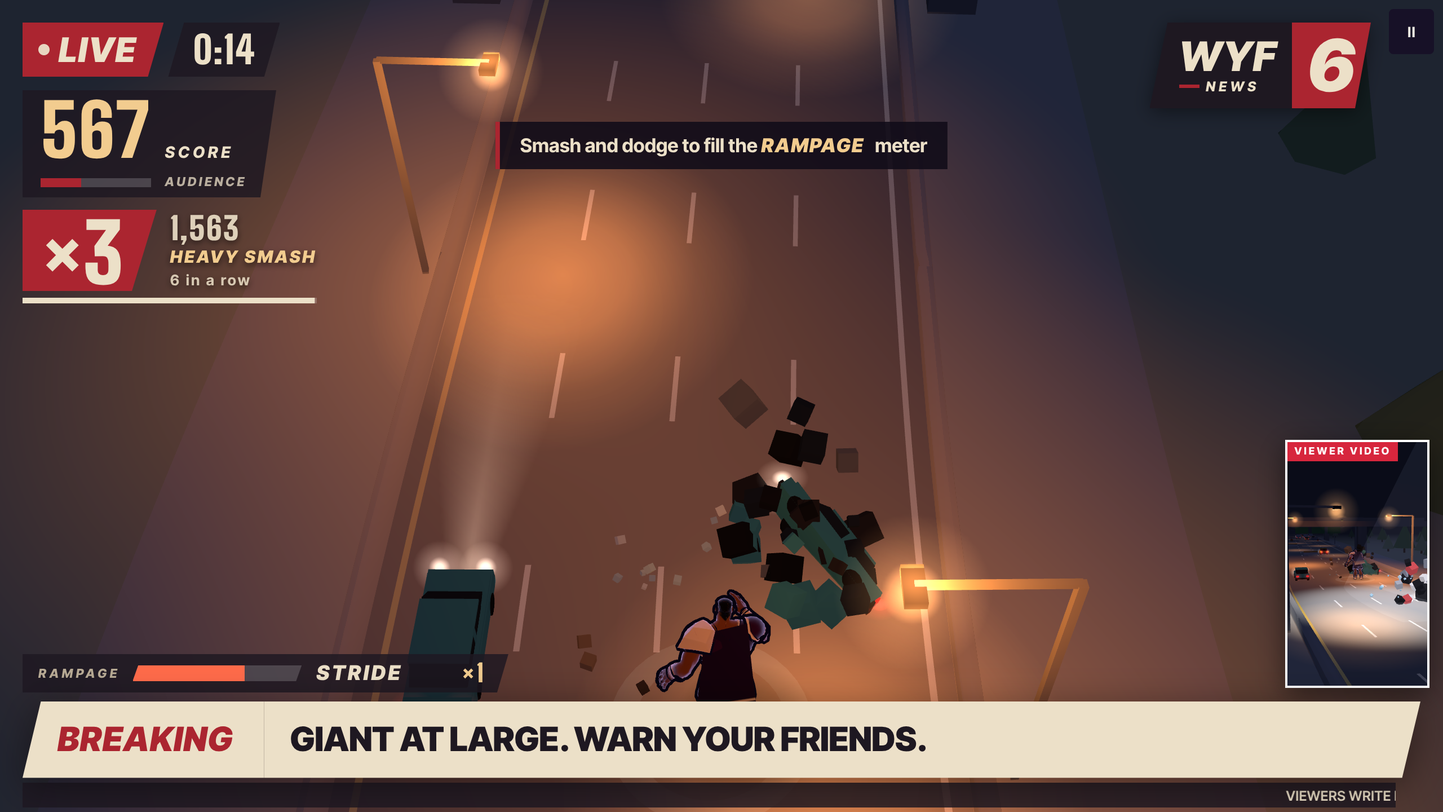
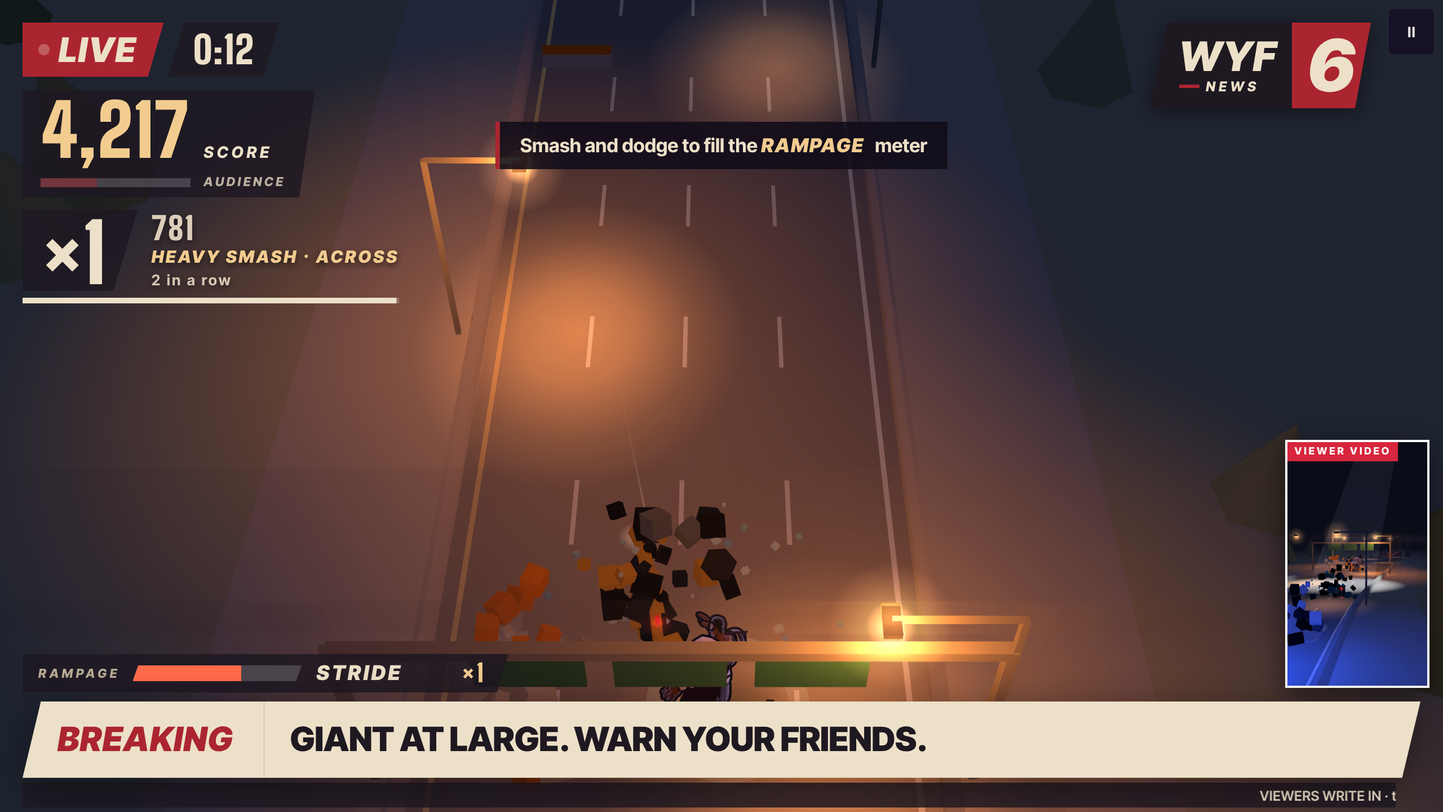
Stride at Rampage speed with stronger Rampage tells; High Head-On opening; menus on the cover art
- Stride runs at 15 m/s with the full-speed pose; Rampage keeps the speed
  and adds a hot rim light, glowing screen edges, a size swell, a deeper
  pose and a wider shot.
- Rebalanced for the speed: meter gains x0.8, upgrade prices x1.25.
- Opening: High Head-On for 3.5s, then the pivot into Chase High.
- The cover art stays behind every menu (and the first How to Play);
  the live attract shot only appears after 12s idle; Go Live cuts
  straight into the broadcast.

Claude-Session: https://claude.ai/code/session_01U6CEu2PNBYzoTWijGizJZi

diff --git a/src/tuning.ts b/src/tuning.ts
@@ -103,7 +103,8 @@ export const TUNING = {
    */
   growth: {
     /** Scale per gear (Jog, Stride, Rampage), body and collision radius. */
-    scale: [1.3, 1.3, 1.3] as [number, number, number],
+    /** Rampage swells him (2026-11-17, a Rampage tell; he runs through everything then, so the bigger hit-box only smashes more). */
+    scale: [1.3, 1.3, 1.45] as [number, number, number],
     /** The fixed-size alternative to compare in playtest (?size=big): Rampage size all the time, look only. */
     big: 1.3,
     /** Grow/shrink ease time constant (s): a swell, not a pop. */
@@ -180,8 +181,11 @@ export const TUNING = {
     // (little bob), knee drive and heel kick, a big exaggerated arm pump (Mike: "exaggerated a bit"). Speeds, cadence
     // and stride are unchanged.
     { name: 'Jog', topSpeed: 6, accel: 8, tierUpAfter: 2.0, smashes: 'light', laneChangeTime: 0.22, cadence: 2.6, specStrideLength: 2.5, leanDeg: 20, hipHeight: 1.68, bodyDrop: 0.12, footLift: 0.45, cameraDistanceScale: 0.9, armSwing: 0.9, armBase: -0.1, flightLift: 0.03, elbowBend: 1.2, capeAngle: 20, capeFlutterHz: 1.3, capeFlutterAmp: 0.05 },
-    { name: 'Stride', topSpeed: 10, accel: 6, tierUpAfter: Infinity, smashes: 'heavy', laneChangeTime: 0.3, cadence: 2.8, specStrideLength: 4.0, leanDeg: 30, hipHeight: 1.64, bodyDrop: 0.18, footLift: 0.75, cameraDistanceScale: 1.0, armSwing: 1.25, armBase: -0.05, flightLift: 0.07, elbowBend: 1.4, capeAngle: 52, capeFlutterHz: 3.2, capeFlutterAmp: 0.12 },
-    { name: 'Rampage', topSpeed: 15, accel: 4, tierUpAfter: Infinity, smashes: 'heavy', laneChangeTime: 0.4, cadence: 3.1, specStrideLength: 6.0, leanDeg: 40, hipHeight: 1.6, bodyDrop: 0.24, footLift: 1.05, cameraDistanceScale: 1.2, armSwing: 1.6, armBase: 0, flightLift: 0.11, elbowBend: 1.6, capeAngle: 80, capeFlutterHz: 6.5, capeFlutterAmp: 0.2 },
+    // Mike (2026-11-17): "his rampage speed should be his default speed, game feels slow without it". Stride runs at
+    // 15 m/s with the full-speed run (the old Rampage pose and framing); a quicker lane change keeps it light on its feet.
+    { name: 'Stride', topSpeed: 15, accel: 6, tierUpAfter: Infinity, smashes: 'heavy', laneChangeTime: 0.3, cadence: 3.1, specStrideLength: 6.0, leanDeg: 38, hipHeight: 1.6, bodyDrop: 0.24, footLift: 1.05, cameraDistanceScale: 1.2, armSwing: 1.5, armBase: 0, flightLift: 0.11, elbowBend: 1.6, capeAngle: 78, capeFlutterHz: 6.0, capeFlutterAmp: 0.18 },
+    // Rampage is a state now, not a faster gear: same speed, a deeper lean, a wilder arm pump and cape, the chopper a little further out (plus the tells in TUNING.rampageFx).
+    { name: 'Rampage', topSpeed: 15, accel: 6, tierUpAfter: Infinity, smashes: 'heavy', laneChangeTime: 0.32, cadence: 3.1, specStrideLength: 6.0, leanDeg: 46, hipHeight: 1.58, bodyDrop: 0.28, footLift: 1.15, cameraDistanceScale: 1.3, armSwing: 1.9, armBase: 0.05, flightLift: 0.13, elbowBend: 1.7, capeAngle: 86, capeFlutterHz: 8, capeFlutterAmp: 0.26 },
   ] as TierTuning[],
 
   tierDrop: {
@@ -208,7 +212,8 @@ export const TUNING = {
    * meter instead of a gear. Score: `distancePoints` a metre at all times (× the gear's bankMult).
    */
   rampage: {
-    gain: { medium: 9, heavy: 12, unit: 16, policeCrash: 20, collateral: 6, nearMiss: 10, ramDodge: 12, lostTrack: 12, chopperShaken: 15, leapLand: 10, breakawayLand: 12 } as Record<string, number>,
+    /** At 15 m/s (2026-11-17) Stride meets more per second: gains ×0.8 keep Rampage about a quarter of the run. */
+    gain: { medium: 7, heavy: 10, unit: 13, policeCrash: 16, collateral: 5, nearMiss: 8, ramDodge: 10, lostTrack: 10, chopperShaken: 12, leapLand: 8, breakawayLand: 10 } as Record<string, number>,
     duration: 8,
     perSmash: 0.3,
     maxDuration: 12,
@@ -218,6 +223,14 @@ export const TUNING = {
     secondWindKeep: 33,
     bufferFrames: 5,
   },
+
+  /**
+   * Rampage tells (presentation, 2026-11-17: "we just need a stronger tell for the rampage state"). His rim light
+   * heats from the look's lilac to `rimColor` at `rimBoost`× strength (eased over `ease` s, a slow `pulseHz`
+   * throb), a hot vignette at the screen edges (CSS), plus the size swell (growth.scale), the pose, the music layer
+   * and the meter's countdown. All under 3 Hz; Reduce Flashes holds the throb still.
+   */
+  rampageFx: { rimColor: 0xff5a1f, rimBoost: 2.4, rimFloor: 1.4, ease: 0.25, pulseHz: 1.6, pulseAmp: 0.25 },
 
   shoulderCheck: {
     /** §7 0.25s burst that smashes one mass class up (unchanged in v0.3). */
@@ -559,14 +572,14 @@ export const TUNING = {
      */
     homeAngle: 0,
     /**
-     * Mike (2026-11-17, "think how SA2 starts City Escape"): every broadcast opens on the low hero shot in front
-     * of him (the Sign-Off angle: he runs at the lens), held `openingHold` s (the cold open is most of it), then
-     * the chopper swings round behind him into Chase High in one move (the swoop). It counts as a cut-away, so
+     * Mike (2026-11-17, "think how SA2 starts City Escape", then his screenshot of the shot he meant): every
+     * broadcast opens on High Head-On (he runs down the screen at you), held `openingHold` s (the cold open is
+     * part of it), then the chopper pivots round behind him into Chase High in one move (the swoop). It counts as a cut-away, so
      * the next one waits the usual `cutMinInterval`. Off when camera cuts are off. Like the swoop, the hero shot
      * is exempt from the ≥2s-of-road framing rule: nothing is placed within 45m of the start or spawns before 12s.
      */
-    openingAngle: 6,
-    openingHold: 2.6,
+    openingAngle: 4,
+    openingHold: 3.5,
     /** Phase 0c: at least 15s between cut-aways (tighter than v0.3's 7s). */
     cutMinInterval: 15,
     /** Phase 0c: return to Chase High after this long away (s, random in range). */
@@ -814,15 +827,16 @@ export const TUNING = {
    * a different one replaces it. Passives stack. Prices are paid from banked spectacle points (spending never lowers
    * the score). Breakaway and Slipstream start locked (Awards unlock them, src/awards.ts).
    */
+  /** Prices ×1.25 (2026-11-17): at 15 m/s a cleared segment banks ~200k with the bot (was ~160k). */
   upgrades: {
-    leap: { kind: 'ability', price: 195000, label: 'Leap', blurb: 'Hop lanes of trouble. The landing flattens what you land on.', pitch: 'Get a clean shot of him clearing the spike strip.', levels: ['', 'Longer jump, bigger landing.', 'The landing flattens anything, armored trucks too.'] },
-    stare: { kind: 'ability', price: 160000, label: 'The Stare', blurb: 'Traffic and police ahead pull out of your lane.', pitch: 'Stay tight on the eyes. We have time.', levels: ['', 'Reaches half again as far.', 'Police that pull over crash out.'] },
-    breakaway: { kind: 'ability', price: 210000, label: 'Breakaway', blurb: 'Dive over everything ahead. The police behind lose you.', pitch: 'Get the long lens on him. He’s about to leave them all behind.', levels: ['', 'Longer dive, bigger slam.', 'Lands straight into Rampage.'] },
-    primeTime: { kind: 'ability', price: 180000, label: 'Prime Time', blurb: 'For a few seconds the audience can’t drop and every smash counts double.', pitch: 'Every station is taking our feed. Make it count.', levels: ['', 'Lasts 8 seconds.', 'Lasts 10 seconds.'] },
-    thickSkin: { kind: 'passive', price: 140000, label: 'Thick Skin', blurb: 'Shrug off the first hit each segment: no meter lost.', pitch: 'He walked through that like a turnstile.' },
-    secondWind: { kind: 'passive', price: 125000, label: 'Second Wind', blurb: 'Each Rampage ends with the meter a third full.', pitch: 'He’s catching his breath. Stay on him, he’s coming back.' },
-    crowdPleaser: { kind: 'passive', price: 150000, label: 'Crowd Pleaser', blurb: 'At Rampage the audience drains 40% slower.', pitch: 'Keep rolling. Nobody can look away.' },
-    slipstream: { kind: 'passive', price: 160000, label: 'Slipstream', blurb: 'Police crashes pay double: Ratings and points.', pitch: 'Anyone chasing him ends up in the scenery. Keep it wide.' },
+    leap: { kind: 'ability', price: 245000, label: 'Leap', blurb: 'Hop lanes of trouble. The landing flattens what you land on.', pitch: 'Get a clean shot of him clearing the spike strip.', levels: ['', 'Longer jump, bigger landing.', 'The landing flattens anything, armored trucks too.'] },
+    stare: { kind: 'ability', price: 200000, label: 'The Stare', blurb: 'Traffic and police ahead pull out of your lane.', pitch: 'Stay tight on the eyes. We have time.', levels: ['', 'Reaches half again as far.', 'Police that pull over crash out.'] },
+    breakaway: { kind: 'ability', price: 260000, label: 'Breakaway', blurb: 'Dive over everything ahead. The police behind lose you.', pitch: 'Get the long lens on him. He’s about to leave them all behind.', levels: ['', 'Longer dive, bigger slam.', 'Lands straight into Rampage.'] },
+    primeTime: { kind: 'ability', price: 225000, label: 'Prime Time', blurb: 'For a few seconds the audience can’t drop and every smash counts double.', pitch: 'Every station is taking our feed. Make it count.', levels: ['', 'Lasts 8 seconds.', 'Lasts 10 seconds.'] },
+    thickSkin: { kind: 'passive', price: 175000, label: 'Thick Skin', blurb: 'Shrug off the first hit each segment: no meter lost.', pitch: 'He walked through that like a turnstile.' },
+    secondWind: { kind: 'passive', price: 155000, label: 'Second Wind', blurb: 'Each Rampage ends with the meter a third full.', pitch: 'He’s catching his breath. Stay on him, he’s coming back.' },
+    crowdPleaser: { kind: 'passive', price: 190000, label: 'Crowd Pleaser', blurb: 'At Rampage the audience drains 40% slower.', pitch: 'Keep rolling. Nobody can look away.' },
+    slipstream: { kind: 'passive', price: 200000, label: 'Slipstream', blurb: 'Police crashes pay double: Ratings and points.', pitch: 'Anyone chasing him ends up in the scenery. Keep it wide.' },
   } as Record<UpgradeId, { kind: 'ability' | 'passive'; price: number; label: string; blurb: string; /** The producer's line on the meeting card (flavour). */ pitch: string; /** Abilities: what levels II and III add ([0] unused). */ levels?: string[] }>,
   /** Ability level-up price, as a share of the ability's price; highest level. */
   levelPrice: 0.8,

diff --git a/api/leaderboard.js b/api/leaderboard.js
@@ -16,7 +16,8 @@ var TUNING = {
    */
   growth: {
     /** Scale per gear (Jog, Stride, Rampage), body and collision radius. */
-    scale: [1.3, 1.3, 1.3],
+    /** Rampage swells him (2026-11-17, a Rampage tell; he runs through everything then, so the bigger hit-box only smashes more). */
+    scale: [1.3, 1.3, 1.45],
     /** The fixed-size alternative to compare in playtest (?size=big): Rampage size all the time, look only. */
     big: 1.3,
     /** Grow/shrink ease time constant (s): a swell, not a pop. */
@@ -89,8 +90,11 @@ var TUNING = {
     // (little bob), knee drive and heel kick, a big exaggerated arm pump (Mike: "exaggerated a bit"). Speeds, cadence
     // and stride are unchanged.
     { name: "Jog", topSpeed: 6, accel: 8, tierUpAfter: 2, smashes: "light", laneChangeTime: 0.22, cadence: 2.6, specStrideLength: 2.5, leanDeg: 20, hipHeight: 1.68, bodyDrop: 0.12, footLift: 0.45, cameraDistanceScale: 0.9, armSwing: 0.9, armBase: -0.1, flightLift: 0.03, elbowBend: 1.2, capeAngle: 20, capeFlutterHz: 1.3, capeFlutterAmp: 0.05 },
-    { name: "Stride", topSpeed: 10, accel: 6, tierUpAfter: Infinity, smashes: "heavy", laneChangeTime: 0.3, cadence: 2.8, specStrideLength: 4, leanDeg: 30, hipHeight: 1.64, bodyDrop: 0.18, footLift: 0.75, cameraDistanceScale: 1, armSwing: 1.25, armBase: -0.05, flightLift: 0.07, elbowBend: 1.4, capeAngle: 52, capeFlutterHz: 3.2, capeFlutterAmp: 0.12 },
-    { name: "Rampage", topSpeed: 15, accel: 4, tierUpAfter: Infinity, smashes: "heavy", laneChangeTime: 0.4, cadence: 3.1, specStrideLength: 6, leanDeg: 40, hipHeight: 1.6, bodyDrop: 0.24, footLift: 1.05, cameraDistanceScale: 1.2, armSwing: 1.6, armBase: 0, flightLift: 0.11, elbowBend: 1.6, capeAngle: 80, capeFlutterHz: 6.5, capeFlutterAmp: 0.2 }
+    // Mike (2026-11-17): "his rampage speed should be his default speed, game feels slow without it". Stride runs at
+    // 15 m/s with the full-speed run (the old Rampage pose and framing); a quicker lane change keeps it light on its feet.
+    { name: "Stride", topSpeed: 15, accel: 6, tierUpAfter: Infinity, smashes: "heavy", laneChangeTime: 0.3, cadence: 3.1, specStrideLength: 6, leanDeg: 38, hipHeight: 1.6, bodyDrop: 0.24, footLift: 1.05, cameraDistanceScale: 1.2, armSwing: 1.5, armBase: 0, flightLift: 0.11, elbowBend: 1.6, capeAngle: 78, capeFlutterHz: 6, capeFlutterAmp: 0.18 },
+    // Rampage is a state now, not a faster gear: same speed, a deeper lean, a wilder arm pump and cape, the chopper a little further out (plus the tells in TUNING.rampageFx).
+    { name: "Rampage", topSpeed: 15, accel: 6, tierUpAfter: Infinity, smashes: "heavy", laneChangeTime: 0.32, cadence: 3.1, specStrideLength: 6, leanDeg: 46, hipHeight: 1.58, bodyDrop: 0.28, footLift: 1.15, cameraDistanceScale: 1.3, armSwing: 1.9, armBase: 0.05, flightLift: 0.13, elbowBend: 1.7, capeAngle: 86, capeFlutterHz: 8, capeFlutterAmp: 0.26 }
   ],
   tierDrop: {
     /** §9 braking longer than this drops a tier (repeats while held). */
@@ -114,7 +118,8 @@ var TUNING = {
    * meter instead of a gear. Score: `distancePoints` a metre at all times (× the gear's bankMult).
    */
   rampage: {
-    gain: { medium: 9, heavy: 12, unit: 16, policeCrash: 20, collateral: 6, nearMiss: 10, ramDodge: 12, lostTrack: 12, chopperShaken: 15, leapLand: 10, breakawayLand: 12 },
+    /** At 15 m/s (2026-11-17) Stride meets more per second: gains ×0.8 keep Rampage about a quarter of the run. */
+    gain: { medium: 7, heavy: 10, unit: 13, policeCrash: 16, collateral: 5, nearMiss: 8, ramDodge: 10, lostTrack: 10, chopperShaken: 12, leapLand: 8, breakawayLand: 10 },
     duration: 8,
     perSmash: 0.3,
     maxDuration: 12,
@@ -124,6 +129,13 @@ var TUNING = {
     secondWindKeep: 33,
     bufferFrames: 5
   },
+  /**
+   * Rampage tells (presentation, 2026-11-17: "we just need a stronger tell for the rampage state"). His rim light
+   * heats from the look's lilac to `rimColor` at `rimBoost`× strength (eased over `ease` s, a slow `pulseHz`
+   * throb), a hot vignette at the screen edges (CSS), plus the size swell (growth.scale), the pose, the music layer
+   * and the meter's countdown. All under 3 Hz; Reduce Flashes holds the throb still.
+   */
+  rampageFx: { rimColor: 16734751, rimBoost: 2.4, rimFloor: 1.4, ease: 0.25, pulseHz: 1.6, pulseAmp: 0.25 },
   shoulderCheck: {
     /** §7 0.25s burst that smashes one mass class up (unchanged in v0.3). */
     duration: 0.25,
@@ -456,14 +468,14 @@ var TUNING = {
      */
     homeAngle: 0,
     /**
-     * Mike (2026-11-17, "think how SA2 starts City Escape"): every broadcast opens on the low hero shot in front
-     * of him (the Sign-Off angle: he runs at the lens), held `openingHold` s (the cold open is most of it), then
-     * the chopper swings round behind him into Chase High in one move (the swoop). It counts as a cut-away, so
+     * Mike (2026-11-17, "think how SA2 starts City Escape", then his screenshot of the shot he meant): every
+     * broadcast opens on High Head-On (he runs down the screen at you), held `openingHold` s (the cold open is
+     * part of it), then the chopper pivots round behind him into Chase High in one move (the swoop). It counts as a cut-away, so
      * the next one waits the usual `cutMinInterval`. Off when camera cuts are off. Like the swoop, the hero shot
      * is exempt from the ≥2s-of-road framing rule: nothing is placed within 45m of the start or spawns before 12s.
      */
-    openingAngle: 6,
-    openingHold: 2.6,
+    openingAngle: 4,
+    openingHold: 3.5,
     /** Phase 0c: at least 15s between cut-aways (tighter than v0.3's 7s). */
     cutMinInterval: 15,
     /** Phase 0c: return to Chase High after this long away (s, random in range). */
@@ -731,15 +743,16 @@ var TUNING = {
    * a different one replaces it. Passives stack. Prices are paid from banked spectacle points (spending never lowers
    * the score). Breakaway and Slipstream start locked (Awards unlock them, src/awards.ts).
    */
+  /** Prices ×1.25 (2026-11-17): at 15 m/s a cleared segment banks ~200k with the bot (was ~160k). */
   upgrades: {
-    leap: { kind: "ability", price: 195e3, label: "Leap", blurb: "Hop lanes of trouble. The landing flattens what you land on.", pitch: "Get a clean shot of him clearing the spike strip.", levels: ["", "Longer jump, bigger landing.", "The landing flattens anything, armored trucks too."] },
-    stare: { kind: "ability", price: 16e4, label: "The Stare", blurb: "Traffic and police ahead pull out of your lane.", pitch: "Stay tight on the eyes. We have time.", levels: ["", "Reaches half again as far.", "Police that pull over crash out."] },
-    breakaway: { kind: "ability", price: 21e4, label: "Breakaway", blurb: "Dive over everything ahead. The police behind lose you.", pitch: "Get the long lens on him. He\u2019s about to leave them all behind.", levels: ["", "Longer dive, bigger slam.", "Lands straight into Rampage."] },
-    primeTime: { kind: "ability", price: 18e4, label: "Prime Time", blurb: "For a few seconds the audience can\u2019t drop and every smash counts double.", pitch: "Every station is taking our feed. Make it count.", levels: ["", "Lasts 8 seconds.", "Lasts 10 seconds."] },
-    thickSkin: { kind: "passive", price: 14e4, label: "Thick Skin", blurb: "Shrug off the first hit each segment: no meter lost.", pitch: "He walked through that like a turnstile." },
-    secondWind: { kind: "passive", price: 125e3, label: "Second Wind", blurb: "Each Rampage ends with the meter a third full.", pitch: "He\u2019s catching his breath. Stay on him, he\u2019s coming back." },
-    crowdPleaser: { kind: "passive", price: 15e4, label: "Crowd Pleaser", blurb: "At Rampage the audience drains 40% slower.", pitch: "Keep rolling. Nobody can look away." },
-    slipstream: { kind: "passive", price: 16e4, label: "Slipstream", blurb: "Police crashes pay double: Ratings and points.", pitch: "Anyone chasing him ends up in the scenery. Keep it wide." }
+    leap: { kind: "ability", price: 245e3, label: "Leap", blurb: "Hop lanes of trouble. The landing flattens what you land on.", pitch: "Get a clean shot of him clearing the spike strip.", levels: ["", "Longer jump, bigger landing.", "The landing flattens anything, armored trucks too."] },
+    stare: { kind: "ability", price: 2e5, label: "The Stare", blurb: "Traffic and police ahead pull out of your lane.", pitch: "Stay tight on the eyes. We have time.", levels: ["", "Reaches half again as far.", "Police that pull over crash out."] },
+    breakaway: { kind: "ability", price: 26e4, label: "Breakaway", blurb: "Dive over everything ahead. The police behind lose you.", pitch: "Get the long lens on him. He\u2019s about to leave them all behind.", levels: ["", "Longer dive, bigger slam.", "Lands straight into Rampage."] },
+    primeTime: { kind: "ability", price: 225e3, label: "Prime Time", blurb: "For a few seconds the audience can\u2019t drop and every smash counts double.", pitch: "Every station is taking our feed. Make it count.", levels: ["", "Lasts 8 seconds.", "Lasts 10 seconds."] },
+    thickSkin: { kind: "passive", price: 175e3, label: "Thick Skin", blurb: "Shrug off the first hit each segment: no meter lost.", pitch: "He walked through that like a turnstile." },
+    secondWind: { kind: "passive", price: 155e3, label: "Second Wind", blurb: "Each Rampage ends with the meter a third full.", pitch: "He\u2019s catching his breath. Stay on him, he\u2019s coming back." },
+    crowdPleaser: { kind: "passive", price: 19e4, label: "Crowd Pleaser", blurb: "At Rampage the audience drains 40% slower.", pitch: "Keep rolling. Nobody can look away." },
+    slipstream: { kind: "passive", price: 2e5, label: "Slipstream", blurb: "Police crashes pay double: Ratings and points.", pitch: "Anyone chasing him ends up in the scenery. Keep it wide." }
   },
   /** Ability level-up price, as a share of the ability's price; highest level. */
   levelPrice: 0.8,

diff --git a/src/game.ts b/src/game.ts
@@ -1,4 +1,5 @@
 import * as THREE from 'three';
+import { RIM } from './render/toon';
 import { TUNING, type AbilityId, type UpgradeId } from './tuning';
 import { RunState, ABILITIES } from './sim/run';
 import { Sim } from './sim/sim';
@@ -49,6 +50,27 @@ if (flags.cuts !== null) settings.cameraCuts = flags.cuts;
 const $ = <T extends HTMLElement>(id: string) => document.getElementById(id) as T;
 const canvas = $<HTMLCanvasElement>('view');
 const flashEl = $('flash');
+/** Rampage tells (TUNING.rampageFx): the rim light heats, the screen edges glow. `rampK` eases 0..1. */
+let rampK = 0;
+let rimBaseStrength = RIM.strength.value;
+const rimBaseColor = RIM.color.value.clone();
+const rimHot = new THREE.Color(TUNING.rampageFx.rimColor);
+function updateRampageFx(dt: number, now: number) {
+  const F = TUNING.rampageFx;
+  const want = sim.inRampage && !attract ? 1 : 0;
+  rampK += (want - rampK) * Math.min(1, dt / F.ease);
+  if (rampK < 0.002) rampK = 0;
+  if (rampK === 0) rimBaseStrength = RIM.strength.value; // the look owns it while he's not in Rampage
+  else {
+    const throb = settings.reduceFlashes ? 1 : 1 + F.pulseAmp * Math.sin(now * Math.PI * 2 * F.pulseHz);
+    // Boosted from the look's own level, never below `rimFloor` (the day look's rim is faint, the tell isn't).
+    const hot = Math.max(rimBaseStrength * F.rimBoost, F.rimFloor) * throb;
+    RIM.strength.value = rimBaseStrength + (hot - rimBaseStrength) * rampK;
+  }
+  RIM.color.value.copy(rimBaseColor).lerp(rimHot, rampK);
+  document.documentElement.classList.toggle('rampage', rampK > 0.5);
+  document.documentElement.classList.toggle('reduceflashes', settings.reduceFlashes);
+}
 const debugEl = $('debug');
 const tierbar = $('tierbar');
 const chyPlace = document.querySelector('#chyron .place') as HTMLElement;
@@ -1940,6 +1962,7 @@ function frame(now: number) {
     }
   }
 
+  updateRampageFx(paused ? 0 : realDt, performance.now() / 1000);
   flashEl.style.opacity = flashFrames > 0 ? '0.85' : bulbFrames > 0 ? '0.18' : '0';
   if (bulbFrames > 0) bulbFrames--;
   if (flashFrames > 0) flashFrames--;
@@ -2037,11 +2060,20 @@ function updateTitleShot(dt: number, t: CameraTarget): boolean {
     wasTitle = inMenus;
     if (inMenus) {
       if (!forcedLook) lighting.setMode('night');
-    } else applyLook();
+    } else {
+      applyLook();
+      // Going live from the cover art: straight into the broadcast's own opening shot, no glide down.
+      if (document.documentElement.classList.contains('cover')) titleK = 0;
+    }
   }
   const idle = (performance.now() - lastInputAt) / 1000;
-  const cover = onTitle && idle < T.idleToAttract;
-  coverEl.hidden = !onTitle; // leaving the title, the camera glide is the transition: the art cuts away
+  // Mike (2026-11-17): the cover art is the backdrop for every menu, not just the title, so the game isn't
+  // spoiled before Go Live; the live attract shot only slides in after `idleToAttract` s with no input.
+  // How to Play before the first broadcast sits on the art too (the broadcast behind it hasn't gone live yet).
+  const briefingFirst = !started && !attract; // a broadcast that hasn't gone live yet (How to Play is up, or about to be)
+  const cover = (inMenus && idle < T.idleToAttract) || briefingFirst;
+  coverEl.hidden = !inMenus && !briefingFirst;
+  void onTitle;
   coverEl.classList.toggle('away', !cover);
   document.documentElement.classList.toggle('cover', cover);
   audio.setHushed(cover); // no footsteps from a giant hidden behind the cover art

diff --git a/src/style.css b/src/style.css
@@ -918,3 +918,19 @@ html.paused #asks { opacity: 1; transform: none; transition: none; }
 #gears.ready { background: var(--c-red); }
 #gears.ready i.meter::after { animation: gearnext 0.4s steps(2) infinite; } /* 2.5 blinks/s, under the photosensitivity limit */
 @media (prefers-reduced-motion: reduce) { #gears.ready i.meter::after { animation: none; } }
+
+/* Menus over the cover art (2026-11-17): beyond the title, the art's wordmark and PRESS START sit under the menu
+   panel, so a dark wash takes the left side; the giant stays in view on the right. */
+#cover::after { content: ''; position: absolute; inset: 0; background: linear-gradient(90deg, rgba(7, 5, 13, 0.97) 0%, rgba(7, 5, 13, 0.95) 40%, rgba(7, 5, 13, 0) 66%); opacity: 0; transition: opacity 0.4s; }
+html:not(:has(#ui [data-screen-id="title"])) #cover::after { opacity: 1; }
+@media (max-aspect-ratio: 1/1) { #cover::after { background: linear-gradient(0deg, rgba(7, 5, 13, 0.94) 0%, rgba(7, 5, 13, 0.85) 45%, rgba(7, 5, 13, 0.2) 75%); } }
+/* How to Play before the first broadcast: over the cover art, a lighter wash so the art shows behind the card. */
+html.briefing.cover #recap { background: rgba(7, 5, 13, 0.62); z-index: 45; }
+
+/* Rampage tell (2026-11-17): hot edges while he's in Rampage, a slow throb (0.8 Hz, well under 3/s); held still under Reduce Flashes / Reduced Motion. */
+#rampfx { position: absolute; inset: 0; pointer-events: none; z-index: 3; opacity: 0; transition: opacity 0.3s; box-shadow: inset 0 0 120px 30px rgba(255, 80, 20, 0.55), inset 0 0 26px 4px rgba(255, 150, 60, 0.5); }
+html.rampage #rampfx { opacity: 1; animation: rampthrob 1.25s ease-in-out infinite; }
+html.rampage.title #rampfx, html.replay #rampfx { opacity: 0; animation: none; }
+@keyframes rampthrob { 50% { opacity: 0.6; } }
+@media (prefers-reduced-motion: reduce) { html.rampage #rampfx { animation: none; } }
+html.reduceflashes.rampage #rampfx { animation: none; }

diff --git a/src/broadcast/headlines.test.ts b/src/broadcast/headlines.test.ts
@@ -86,7 +86,10 @@ describe('headlines (§21)', () => {
       }
       // Heat only makes news going up (a Pose spends it).
       for (const { h } of out) if (h.sources[0]?.type === 'heat') expect((h.sources[0] as Extract<SimEvent, { type: 'heat' }>).heat).toBeGreaterThan(0);
-      if (ups.length && out.length > 10) expect(out.some(({ h }) => h.sources.some((e) => ['leapLand', 'stare', 'breakawayLand', 'primeTime'].includes(e.type)))).toBe(true);
+      // An ability he actually used makes the news (Stride smashes most things now, so a Leap isn't always needed).
+      const used = [...log].some((e) => ['leapLand', 'stare', 'breakawayLand', 'primeTime'].includes(e.type));
+      // (A Leap's landing can run as what it flattened: "Lands On Fruit Cart", sourced from the smash.)
+      if (ups.length && used && out.length > 10) expect(out.some(({ h }) => /\bLands\b/.test(h.text) || h.sources.some((e) => ['leapLand', 'stare', 'breakawayLand', 'primeTime'].includes(e.type)))).toBe(true);
       // The broadcast ends with a sign-off or busted line, from the event that ended it.
       const final = out[out.length - 1].h;
       expect(["SIGN-OFF", "BUSTED"]).toContain(final.kicker);

diff --git a/src/sim/run.test.ts b/src/sim/run.test.ts
@@ -125,7 +125,7 @@ describe('abilities and passives (§17)', () => {
   it('Breakaway: a dive faster than his top speed, a slam, and the police behind him lose track', () => {
     const sim = new Sim({ seed: 5, upgrades: ['breakaway'] });
     run(sim, 300);
-    const cop = (sim.pursuit as unknown as { make: (k: string, u: string, s: number, d: number, l: number) => { speed: number; lost: boolean } }).make('cruiser', 'cruiser', sim.giant.s - 12, sim.giant.d, sim.giant.lane);
+    const cop = (sim.pursuit as unknown as { make: (k: string, u: string, s: number, d: number, l: number) => { speed: number; lost: boolean } }).make('cruiser', 'cruiser', sim.giant.s - 30, sim.track.laneCenter(sim.giant.lane > 0 ? sim.giant.lane - 1 : sim.giant.lane + 1), sim.giant.lane > 0 ? sim.giant.lane - 1 : sim.giant.lane + 1); // a lane over: Stride flattens a police car it runs into
     cop.speed = sim.giant.speed;
     run(sim, 1, { ability: true });
     let maxSpeed = 0;

diff --git a/src/sim/sim.test.ts b/src/sim/sim.test.ts
@@ -99,8 +99,8 @@ describe('track (v0.3 highway)', () => {
 });
 
 describe('lanes', () => {
-  it('lane change times are Jog 0.22s, Stride 0.30s, Rampage 0.40s', () => {
-    for (const [tier, dur] of [[0, 0.22], [1, 0.3], [2, 0.4]] as const) {
+  it('lane change times follow each gear (TUNING.tiers laneChangeTime)', () => {
+    for (const [tier, dur] of [0, 1, 2].map((t) => [t, TUNING.tiers[t].laneChangeTime] as const)) {
       const sim = emptySim();
       setTier(sim, tier);
       const from = sim.giant.lane;

diff --git a/index.html b/index.html
@@ -11,6 +11,7 @@
     <div id="app">
       <canvas id="view"></canvas>
       <div id="flash"></div>
+      <div id="rampfx" aria-hidden="true"></div>
 
       <div id="debug" hidden></div>
 

diff --git a/DECISIONS.md b/DECISIONS.md
@@ -4,6 +4,9 @@ Build-time decisions, working defaults for open questions (GDD §46), and deviat
 
 | Date | Decision | Why | Revisit |
 |---|---|---|---|
+| 2026-11-17 | **Stride runs at Rampage speed** (Mike: "his rampage speed should be his default speed, game feels slow without it. We just need a stronger tell for the rampage state"). Stride: 15 m/s with the full-speed run pose and framing (camera ×1.2), lane change 0.3s. Rampage is a state, not a faster gear: same 15 m/s, a deeper lean, wilder arms and cape, the chopper a little further out (×1.3), and he **swells** to 1.45× (hit-box too; he smashes everything then, so it only smashes more). **Tells** (`rampageFx`): his rim light heats from lilac to orange at up to 2.4× (never below 1.4, so the day look shows it), a slow throb; the screen edges glow hot (0.8 Hz); plus the meter countdown and the music layer. Under 3 Hz throughout; Reduce Flashes / Reduced Motion hold them still. Balance at 15 m/s: meter gains ×0.8 (Rampage ~31% of the bot's time), upgrade prices ×1.25 (a cleared segment banks ~200k with the bot, was ~160k); bot clears 200/200 (it's a strong bot: watch human feel). | Mike's call. | Mike's feel check |
+| 2026-11-17 | **Opening: High Head-On, then the pivot** (Mike, with a screenshot of the shot; supersedes the SA2 hero shot row): 3.5s on High Head-On (the cold open is part of it), then the swoop round into Chase High. | Mike's call. | — |
+| 2026-11-17 | **The cover art is the menus' backdrop** (Mike: "let's not spoil the game camera once start is pressed… build that artwork as the game's main menu and then take them directly to the game; only keep attract mode for when no button is pressed after some time"). The cover stays behind every menu (main menu, Awards, Settings, How to Play before the first broadcast), with a dark wash over its wordmark side beyond the title; the live attract shot only slides in after `title.idleToAttract` 12s without input (any input brings the art back). Go Live cuts from the art straight to the broadcast's opening, no glide down from the title shot. | Mike's call. | — |
 | 2026-11-17 | **The Rampage loop** (Mike: "keep it in Stride and remove the Jog state, make Rampage the payoff… I still want the game to be accessible"). **Deviation from v0.3 §7–9's three gears built by holding top speed.** Stride is the base gear (each segment opens with a run-up from 4 m/s); Jog is gone (its pose stays in the code). Stride smashes all traffic (Medium and Heavy, police cars included); bulldozers, armored trucks, a cruiser mid-swerve, Net flankers and spikes are what it can't take. Stunts fill a **Rampage meter** (`rampage.gain`; ~25s of good play); full, the Rampage button (the old Shoulder Check button: Shift / W / LMB · RB/R1 · the touch button) fires **Rampage**: 8s, +0.3s a smash up to 12s, 15 m/s, through everything (bulldozers, police, the Net's truck; spikes don't touch him), score ×2. Then back to Stride. **Hits cost meter, not a gear** (25%; Thick Skin shrugs off the first); braking never costs a gear; a slipped Net or being caught ends a Rampage. Score also ticks with distance (4 points a metre × the gear's multiplier; Stride ×1, Rampage ×2). The first try left Stride smashing Medium only: Ratings starved and 17/20 bot segments were cut to commercial, so Stride takes Heavy traffic and Rampage keeps the things nothing else breaks. Soak (bot): 4.3 Rampages a segment, 30% of the time in Rampage, 175/200 cleared, ~160k banked (upgrade prices unchanged). | Mike's call; tightens the loop (build, cash in, build) and fewer gear-loss spirals is more accessible. | Mike's feel check: meter rate, duration, bounces (0.5 a run for the bot, down from 6) |
 | 2026-11-17 | **Shoulder Check is off the core controls** (its button fires Rampage). It isn't in the upgrade pool yet: a card needs its art and pitch. The sim code stays dormant. | Part of the Rampage loop. | Shoulder Check as an upgrade, with Mike |
 | 2026-11-17 | **Auto Rampage** (Settings; on by default on touch screens): a full meter fires itself. It's an input like any press, so recorded runs replay and verify the same. Game Speed (90/80/70%) stays the main difficulty assist. | Accessibility. | — |
